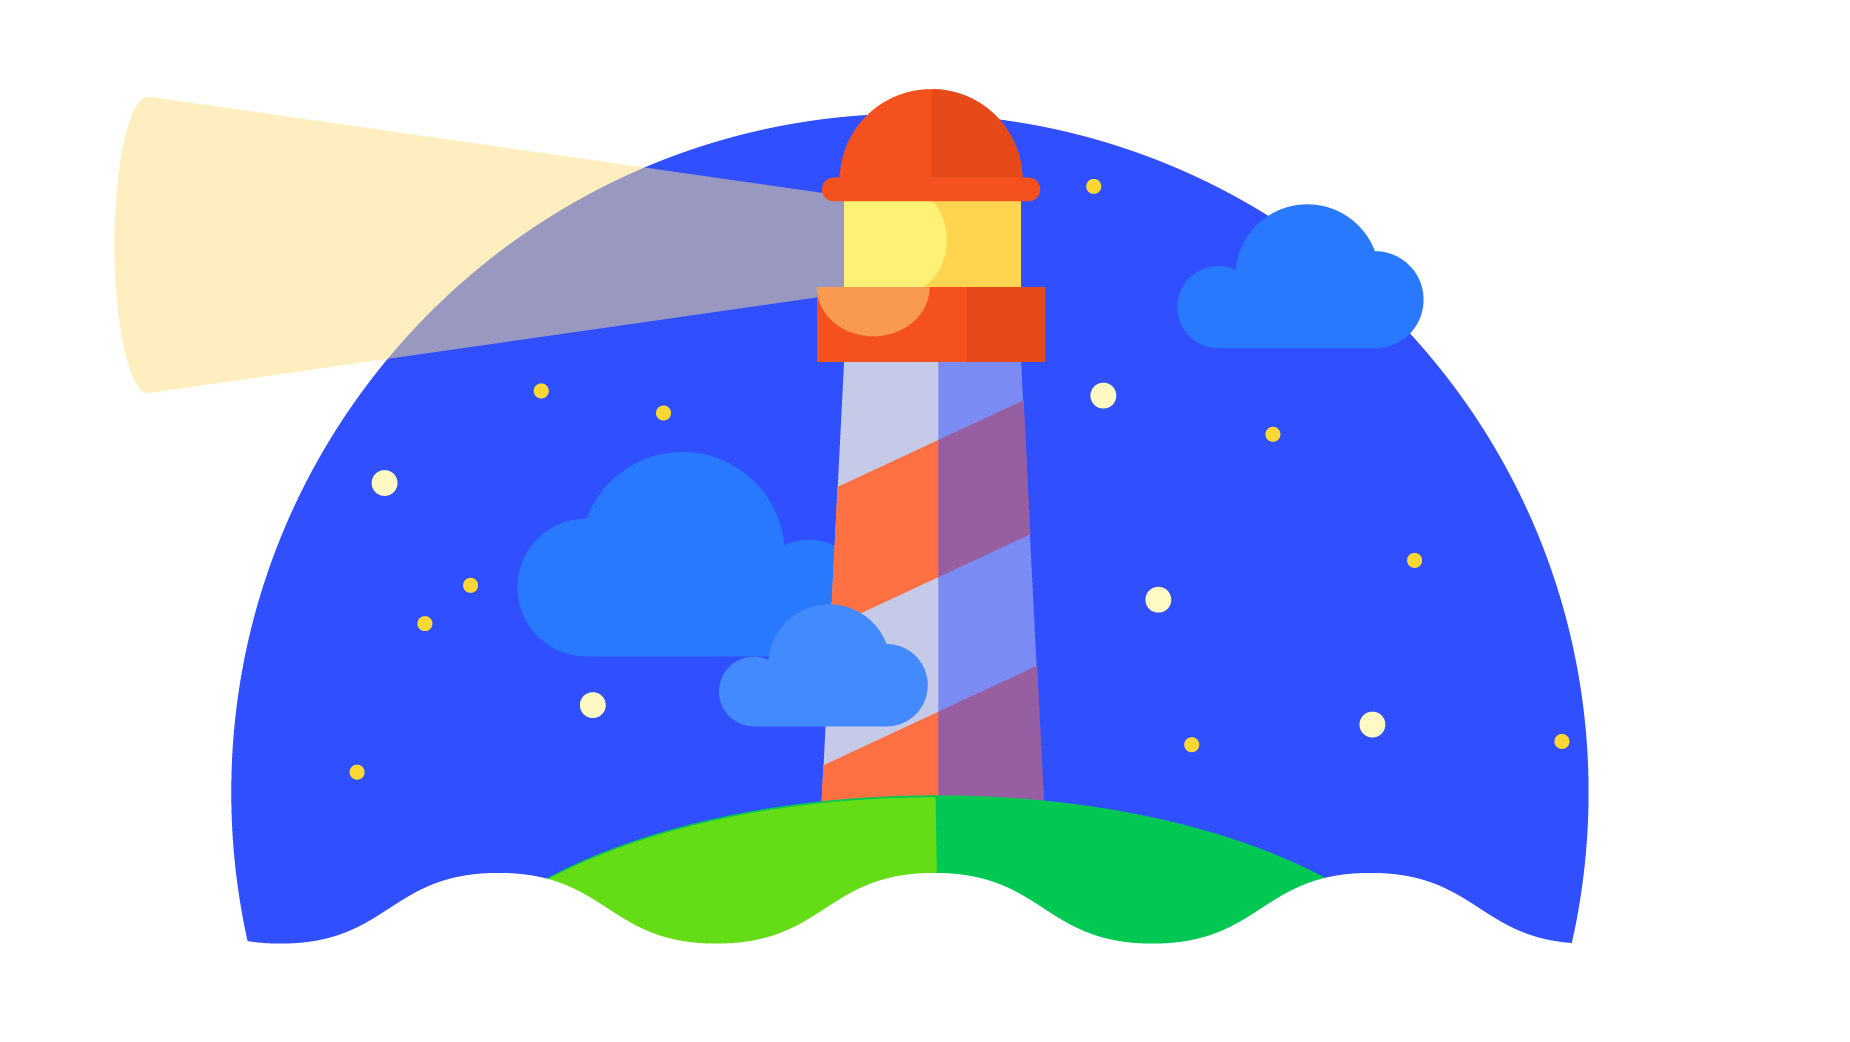
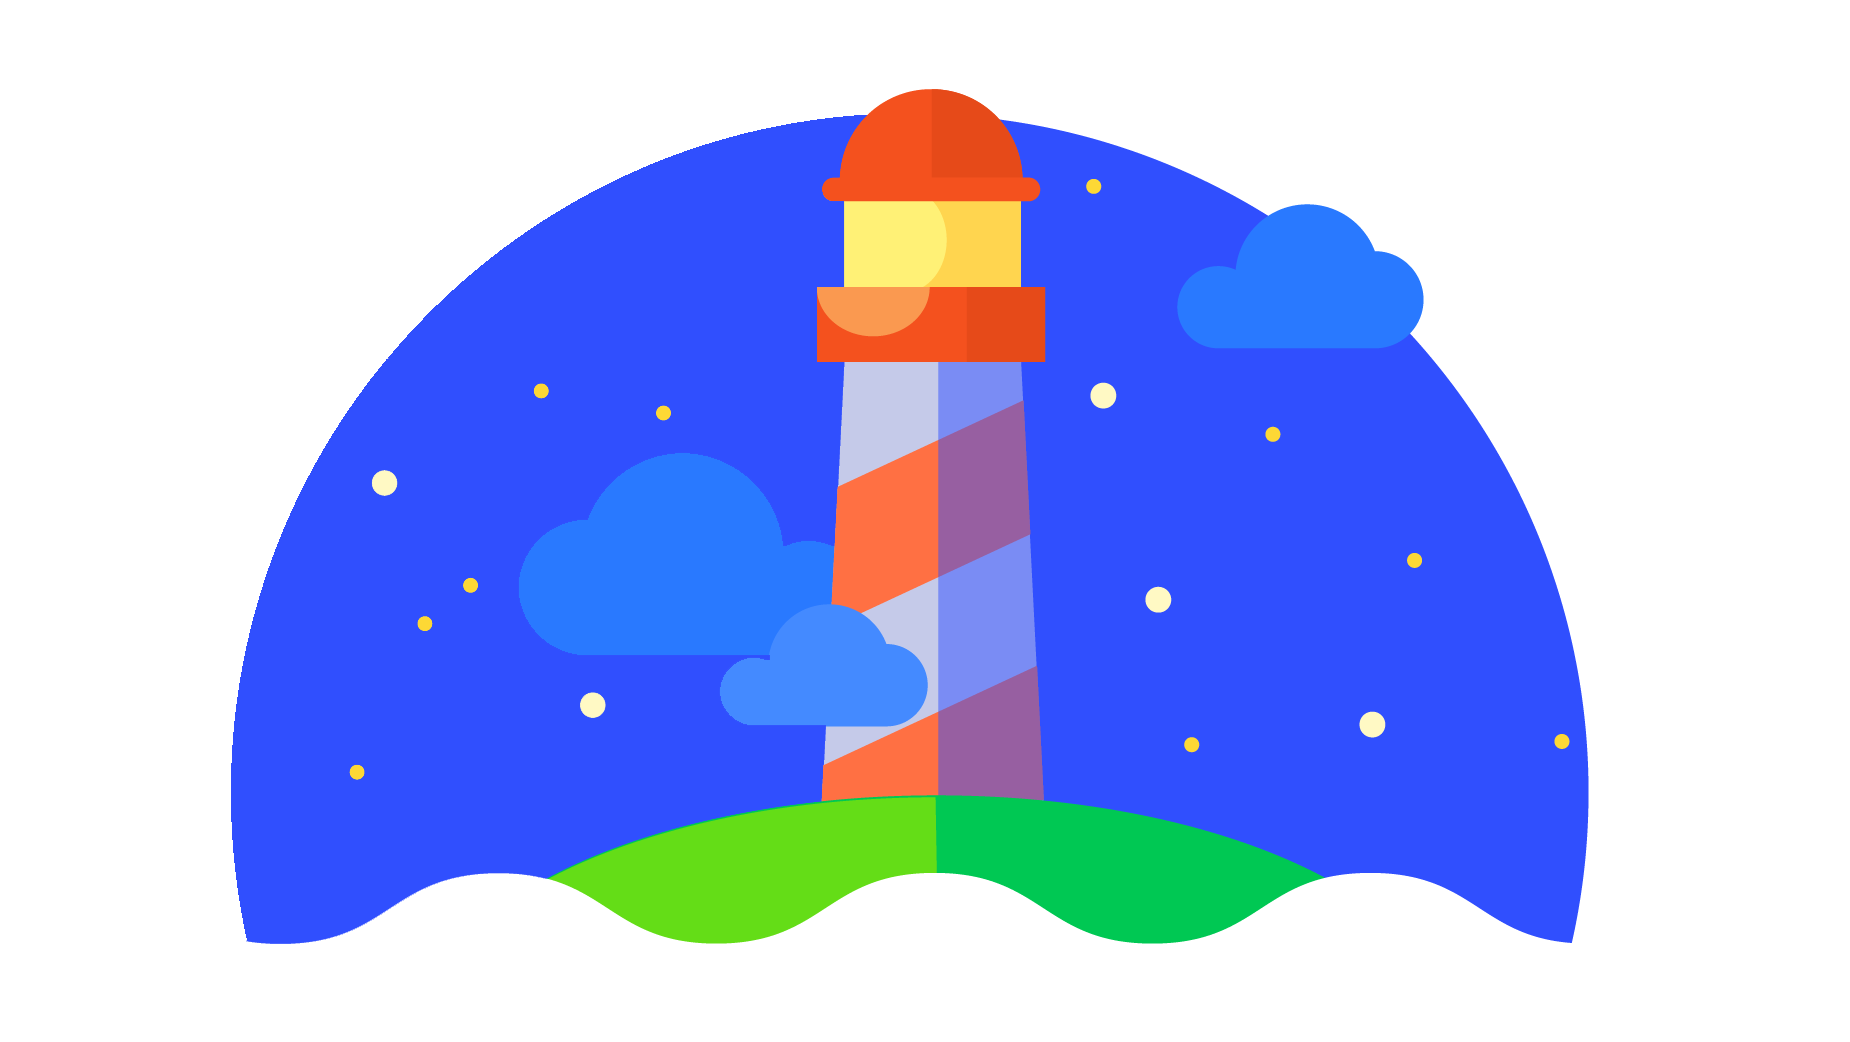
Remove light from correct image

Changed region(s): [[0.0616, 0.0921, 0.4622, 0.3992]]

diff --git a/index.html b/index.html
@@ -126,7 +126,7 @@
 <footer>
   <!--<a href="https://www.youtube.com/watch?v=bx9JXImZRI0" rel="noopener" target="_blank">inspiration</a>-->
   <!-- TODO: automate incrementing this version with the cache versions in sw.js -->
-  <span>v0.0.5</span>
+  <span>v0.0.6</span>
 </footer>
 
 <script>

diff --git a/sw.js b/sw.js
@@ -1,7 +1,7 @@
 'use strict';
 
 // Also change the version in index.html
-const VERSION = '0.0.5';
+const VERSION = '0.0.6';
 
 const PRECACHE = `precache-v${VERSION}`;
 const RUNTIME = `runtime-v${VERSION}`;
